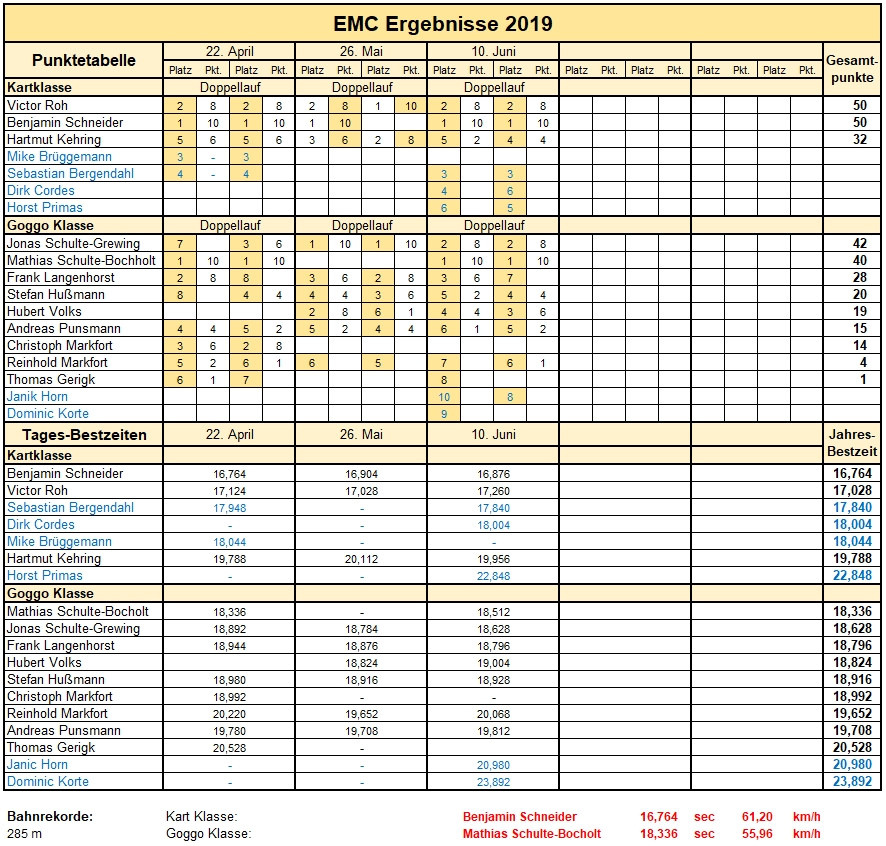
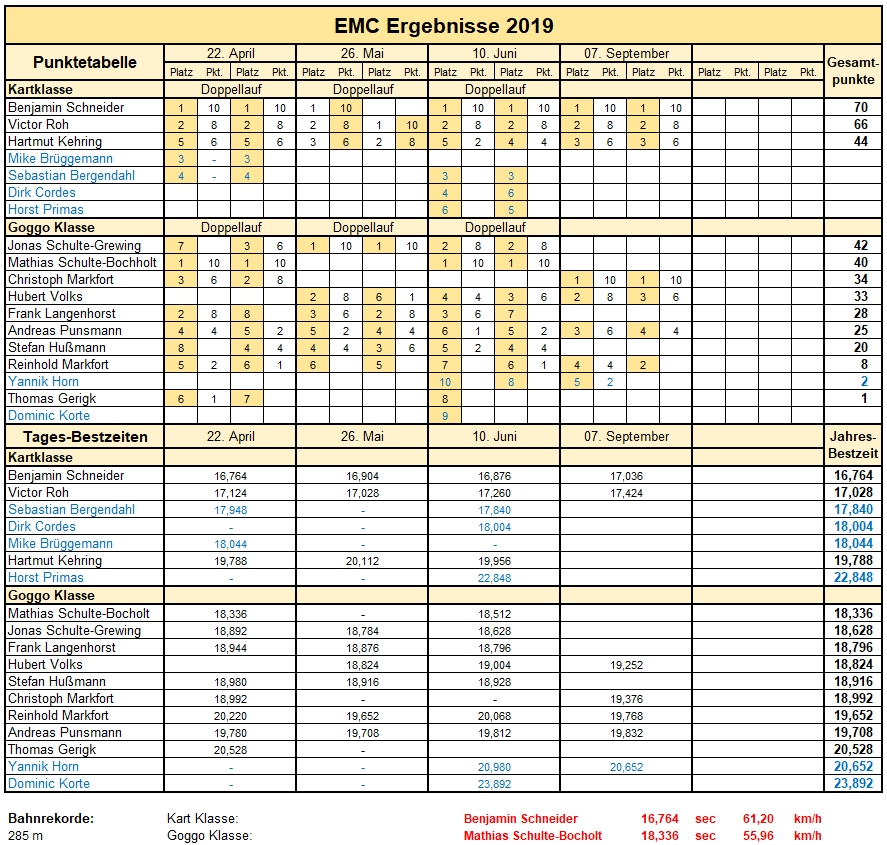
4. Rennen

diff --git a/index.html b/index.html
@@ -8,6 +8,50 @@ description: Kartsport mit "Goggo"-Karts und konventionellen Karts
 <!-------------------------------------------------------------------------->
 <h2 align="center">Das Jahr 2019</h2>
 
+<h3 align="center">34. Lauf um den Jahrespokal des EMC am 07. September 2019</h3>
+<p align="justify">
+  Der 4. Lauf zum EMC Pokal wurde am Samstag, den 07. September durchgeführt. In
+  der Goggo-Klasse gingen 5 Fahrer und in der Kartklasse 3 Fahrer an den Start.
+  Auf vielfachen Wunsch wurde der Termin auf einen Samstag gelegt, um
+  anschließend den Tag bei einem gemütlichen Zusammensein am Holzkohlengrill
+  ausklingen zu lassen. Leider hatten sich nur wenige Mitglieder eingefunden,
+  trotzdem hatten wir bei gutem Wetter einen spannenden Renntag und einen
+  schönen Grillabend.
+</p>
+<p align="justify">
+  In der Goggo-Klasse konnte Christoph Markfort zwei Siege einfahren. Hubert
+  Volks war zwar schneller, verpatzte aber im ersten Lauf den Start und musste
+  beim zweiten Lauf in Führung liegend wegen Motorschaden aufgeben. Die weiteren
+  Positionen im zweiten für den Tagespokal entscheidenden Lauf belegten Reinhold
+  Markfort, Hubert Volks und Andreas Punsmann.
+</p>
+<p align="justify">
+  In der Kartklasse konnte Benjamin Schneider vor Victor Roh zwei Siege
+  einfahren. Den dritten Platz belegte Hartmut Kehring.
+</p>
+<figure class="gesamt">           <!-- 2 Bilder nebeneinander anordnen -->
+      <figure class="einzel2">    <!-- Originalgröße 1630 x 1400 einstellen -->
+           <img src="img/rennen/2019.09.07_goggo.jpg" alt="Sieger Goggo" />
+           <figcaption>Tagessieger Goggo</figcaption>
+      </figure>
+      <figure class="einzel2">
+           <img src="img/rennen/2019.09.07_kart.jpg" alt="Sieger Kart" />
+           <figcaption>Tagessieger Kart</figcaption>
+      </figure>
+</figure>
+<div class="textspalten2">       <!-- Bildunterschrift in 2 Spalten anordnen -->
+   <ul>
+    	<li>1. Christoph Markfort</li>
+   		<li>2. Reinhold Markfort</li>
+   		<li>3. Hubert Volks</li>
+   		<li>4. Andreas Punsmann</li>
+   		<li>1. Benjamin Schneider</li>
+      <li>2. Victor Roh</li>
+      <li>3. Hartmut Kehring</li>
+      <li></li>
+   </ul>
+</div>
+
 <h3 align="center">3. Lauf um den Jahrespokal des EMC am 10. Juni 2019</h3>
 <p align="justify">
   Der 3. Lauf zum EMC Pokal wurde am Pfingstmontag, den 10. Juni durchgeführt.
